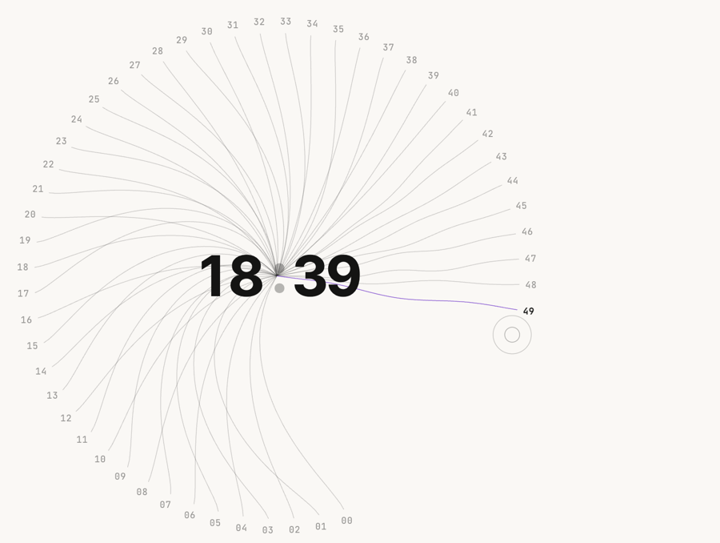
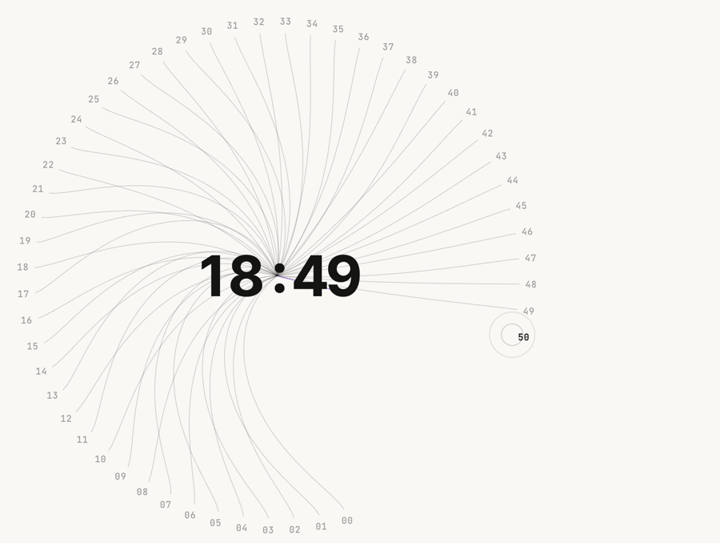
Crown lotus finale: each line folds into its own petal
In the final turn every line becomes a filled, pointed petal aimed at
its second: three rings of 20 offset like scales, deeper toward the
centre, around a disc with a turning rosette and a soft violet glow.
Petals shrink back into the centre at :00. Docs and previews updated.

diff --git a/lotus-clock.js b/lotus-clock.js
@@ -27,13 +27,14 @@ const GLOW_MS = 1700;         // ripple of light through the digits at :00
 const TWIST_K = 0.26;         // twist a line keeps per radian the dial turns
 const LAG_K = 250;            // extra trail while the dial moves (rad per rad/ms)
 const SAMPLES = 40;
-// In the final turn the lines gather into a lotus: every 5 lines make one petal (12 petals),
-// long and short alternating. The outer pair of each group become the petal's edges.
-const PER_PETAL = 5;
-const PETALS = 60 / PER_PETAL;
-const petalLen = (g) => (g % 2 ? 0.72 : 1);
-const petalWid = (g) => (g % 2 ? 0.46 : 0.34);                       // half-width, share of length
-const petalShape = (u) => Math.sin(Math.PI * Math.pow(u, 1.36));     // pointed ends, fullest past the middle
+// In the final turn every line folds into its own lotus petal, pointing at its second.
+// Line s joins ring s % 3, so the 60 lines make three rings of 20 petals, offset like scales
+// (a crown lotus). Values are shares of the space between the digits and the dial.
+const RINGS = 3;
+const RING_BASE = [-0.02, 0.17, 0.36];   // where each ring's petals start (inner → outer)
+const RING_LEN = [0.46, 0.52, 0.64];     // how long they are
+const RING_FILL = [0.55, 0.4, 0.28];     // inner petals are deeper
+const petalShape = (v) => Math.pow(Math.sin(Math.PI * v), 0.8) * (1 - 0.38 * v) * 1.25;   // onion-dome: round body, pointed tip
 
 /* ---------------------------------------------------------------------------
  * Sound: a synthesised Tibetan singing bowl, shared by every clock on the page.
@@ -180,8 +181,17 @@ text.now { opacity: 1; font-weight: 600; }
 .ripple { fill: none; stroke: currentColor; stroke-opacity: .5; stroke-width: .75; vector-effect: non-scaling-stroke; }
 .ripple.big { stroke: var(--_accent); stroke-opacity: .55; }
 .converge { fill: none; stroke: var(--_accent); stroke-opacity: .75; stroke-width: .9; vector-effect: non-scaling-stroke; opacity: 0; }
-.petal { fill: var(--_accent); stroke: none; opacity: 0; }
-.petal.long { fill-opacity: .16; } .petal.short { fill-opacity: .3; }
+.line { fill: var(--_accent); fill-opacity: 0; }
+.line.formed { stroke: var(--_accent); stroke-opacity: .85; }
+.aura {
+  position: absolute; inset: -6%; pointer-events: none; opacity: 0;
+  background: radial-gradient(circle at 50% 50%, color-mix(in srgb, var(--_accent) 34%, transparent) 0%, color-mix(in srgb, var(--_accent) 14%, transparent) 42%, transparent 68%);
+}
+.disc { opacity: 0; }
+.disc .face { fill: var(--lc-paper-solid, Canvas); }
+.disc .tint { fill: var(--_accent); fill-opacity: .12; stroke: var(--_accent); stroke-opacity: .55; stroke-width: 1; vector-effect: non-scaling-stroke; }
+.disc .inner { fill: none; stroke: var(--_accent); stroke-opacity: .4; stroke-width: .75; vector-effect: non-scaling-stroke; }
+.disc .rosette circle { fill: none; stroke: var(--_accent); stroke-opacity: .45; stroke-width: .7; vector-effect: non-scaling-stroke; }
 .clock {
   position: absolute; left: 50%; top: 50%; transform: translate(-50%, -50%);
   display: flex; align-items: baseline; white-space: nowrap;
@@ -235,6 +245,7 @@ export class LotusClock extends HTMLElement {
     const root = this.attachShadow({ mode: 'open' });
     root.innerHTML = `<style>${STYLES}</style>
       <div class="stage" part="stage">
+        <div class="aura" aria-hidden="true"></div>
         <svg aria-hidden="true"></svg>
         <div class="clock" part="time" role="timer" aria-live="off"><span class="hh">--</span><span class="colon">:</span><span class="mm">--</span></div>
         <div class="clock glow" aria-hidden="true"></div>
@@ -242,6 +253,7 @@ export class LotusClock extends HTMLElement {
       </div>`;
     this._el = {
       stage: root.querySelector('.stage'),
+      aura: root.querySelector('.aura'),
       svg: root.querySelector('svg'),
       clock: root.querySelector('.clock:not(.glow)'),
       glow: root.querySelector('.glow'),
@@ -432,10 +444,17 @@ export class LotusClock extends HTMLElement {
   _buildSvg() {
     const svg = this._el.svg;
     this._gLabels = this._mk('g', { class: 'labels' }, svg);
-    // Petal fills sit behind the lines; their shape is taken from the lines every frame.
-    this._gPetals = this._mk('g', { class: 'petals' }, svg);
-    this._petals = Array.from({ length: PETALS }, (_, g) => this._mk('path', { class: g % 2 ? 'petal short' : 'petal long' }, this._gPetals));
+    // Lines in three ring groups, outer ring drawn first so inner petals sit on top.
     this._gLines = this._mk('g', { class: 'lines' }, svg);
+    this._ringGroups = [];
+    [2, 1, 0].forEach((r) => { this._ringGroups[r] = this._mk('g', { class: `ring r${r}` }, this._gLines); });
+    // The centre of the lotus: a disc behind the time with a rosette of circles.
+    this._gDisc = this._mk('g', { class: 'disc' }, svg);
+    this._discFace = this._mk('circle', { class: 'face' }, this._gDisc);
+    this._discTint = this._mk('circle', { class: 'tint' }, this._gDisc);
+    this._discInner = this._mk('circle', { class: 'inner' }, this._gDisc);
+    this._rosette = this._mk('g', { class: 'rosette' }, this._gDisc);
+    this._rosetteCircles = Array.from({ length: 18 }, () => this._mk('circle', {}, this._rosette));
     this._gRipples = this._mk('g', { class: 'ripples' }, svg);
     this._converge = [0, 1, 2].map(() => this._mk('circle', { class: 'converge' }, this._gRipples));
     this._labels = Array.from({ length: 60 }, () => this._mk('text', {}, this._gLabels));
@@ -459,6 +478,14 @@ export class LotusClock extends HTMLElement {
     this._geo = { cx, cy, R, rIn, sparse: (TAU * R) / 60 < 22 };
     this._el.svg.setAttribute('viewBox', `0 0 ${host.width} ${host.height}`);
     Object.assign(this._el.bowl.style, { left: `${cx - rIn}px`, top: `${cy - rIn}px`, width: `${rIn * 2}px`, height: `${rIn * 2}px` });
+    // Disc and rosette (circles through the centre, like a spirograph), drawn around (0, 0).
+    const dr = rIn - 3;
+    [[this._discFace, dr], [this._discTint, dr], [this._discInner, dr * 0.84]].forEach(([c, r]) => { c.setAttribute('cx', 0); c.setAttribute('cy', 0); c.setAttribute('r', r.toFixed(1)); });
+    const rr = dr * 0.4;
+    this._rosetteCircles.forEach((c, i) => {
+      const a = (i / this._rosetteCircles.length) * TAU;
+      c.setAttribute('cx', (Math.cos(a) * rr).toFixed(1)); c.setAttribute('cy', (Math.sin(a) * rr).toFixed(1)); c.setAttribute('r', rr.toFixed(1));
+    });
     this._placedRot = null;
     this._placeLabels();
     this._paintLabels();
@@ -495,14 +522,13 @@ export class LotusClock extends HTMLElement {
     const drag = s % 2 ? rand(1.05, 1.5) : rand(0.5, 0.95);
     this._lines.push({
       s, th: this._angle(s), drag,
-      g: Math.floor(s / PER_PETAL),                                       // which petal it joins
-      c: ((s % PER_PETAL) - (PER_PETAL - 1) / 2) / ((PER_PETAL - 1) / 2), // −1 … +1 across the petal
-      mFix: null, pts: [],
+      ring: s % RINGS,                                                    // which ring of the lotus it joins
+      mFix: null,
       twist: age * Math.abs(STEP) * TWIST_K * drag,
       f: rand(1, 2.4), w: rand(1.2, 2.8), phi: rand(0, TAU),
       born: now + delay, pluckAt: now + delay + GROW_MS * 0.75, pluckAmp: rand(5, 9),
       retractAt: null,
-      path: this._mk('path', { class: 'line' }, this._gLines),
+      path: this._mk('path', { class: 'line' }, this._ringGroups[s % RINGS]),
     });
   }
 
@@ -589,21 +615,37 @@ export class LotusClock extends HTMLElement {
     } else this._angVel = 0;
     this._lastRot = this._rot; this._lastFrame = now;
 
-    // How far the lines have gathered into the lotus: only during the final turn.
+    // How far the lines have folded into the lotus: only during the final turn.
     const form = still || !finale ? 0 : smoothstep(clamp(turn * 1.3, 0, 1));
     if (turn > 0) this._form = form;   // remembered past :00 so the closing lotus keeps its shape
+    // How visible the lotus's centre and glow are: with the bloom, then fading after :00.
+    let bloom = form;
+    if (turn <= 0 && !still && finale && now - this._rolledAt < 900) bloom = 1 - smoothstep((now - this._rolledAt) / 900);
+    this._el.aura.style.opacity = (bloom * 0.95).toFixed(3);
+    this._gDisc.style.opacity = bloom.toFixed(3);
+    if (bloom > 0.001) {
+      const deg = (this._rot * 180) / Math.PI;
+      this._gDisc.setAttribute('transform', `translate(${cx.toFixed(1)} ${cy.toFixed(1)})`);
+      this._rosette.setAttribute('transform', `rotate(${(-deg * 1.5).toFixed(2)}) scale(${(0.6 + 0.4 * bloom).toFixed(3)})`);
+    }
     this._placeLabels();
+
+    const span = R - g.rIn;
+    const half = Math.PI / 20;                          // half the angle between petals in one ring
 
     // Lines.
     this._lines = this._lines.filter((st) => {
-      let end = 1;
+      // How much of the line is drawn, and (for a closing lotus) how far its petal has shrunk.
+      const m = st.mFix === null ? form : st.mFix;
+      let end = 1, shrink = 1;
       if (st.retractAt !== null) {
         const r = still ? 1 : clamp((now - st.retractAt) / RETRACT_MS, 0, 1);
         if (r >= 1) { st.path.remove(); return false; }
-        end = 1 - ease(r);
+        if (m > 0.001) shrink = 1 - ease(r);            // petals fold back into the centre
+        else end = 1 - ease(r);                           // plain lines draw back in
       }
       if (!still) end = Math.min(end, ease(clamp((now - st.born) / GROW_MS, 0, 1)));
-      if (end < 0.005) { st.path.setAttribute('d', ''); return true; }
+      if (end < 0.005 || shrink < 0.005) { st.path.setAttribute('d', ''); return true; }
 
       const th = st.th + this._rot;
       const dx = Math.cos(th), dy = Math.sin(th), nx = -dy, ny = dx;
@@ -611,17 +653,15 @@ export class LotusClock extends HTMLElement {
       const trail = st.twist - this._angVel * LAG_K * st.drag;
       const A = !still && now >= st.pluckAt ? st.pluckAmp * Math.exp(-(now - st.pluckAt) / 480) : 0;
 
-      // Its place in the lotus (only used while gathering): along the petal's axis, bowed across it.
-      const m = st.mFix === null ? form : st.mFix;
-      let ux = 0, uy = 0, vx = 0, vy = 0, Lp = 0, Wp = 0;
+      // Its petal: from the ring's base out to a point, aimed at the line's own second.
+      let base = 0, L = 0, W = 0;
       if (m > 0.001) {
-        const ax = this._angle(st.g * PER_PETAL + (PER_PETAL - 1) / 2) + this._rot;
-        ux = Math.cos(ax); uy = Math.sin(ax); vx = -uy; vy = ux;
-        Lp = R * petalLen(st.g); Wp = Lp * petalWid(st.g) * st.c;
+        base = g.rIn + span * RING_BASE[st.ring];
+        L = span * RING_LEN[st.ring];
+        W = Math.min(L * 0.42, (base + L * 0.4) * Math.sin(half) * 1.3);
       }
 
       let d = '';
-      const pts = st.pts; pts.length = 0;
       for (let i = 0; i <= SAMPLES; i++) {
         const u = end * (i / SAMPLES);
         const x = R * u;
@@ -633,39 +673,20 @@ export class LotusClock extends HTMLElement {
           [px, py] = [px * cl - py * sl, px * sl + py * cl];
         }
         if (m > 0.001) {
-          const sh = petalShape(u);
-          px += (ux * Lp * u + vx * Wp * sh - px) * m;
-          py += (uy * Lp * u + vy * Wp * sh - py) * m;
+          // Trace the petal: first half up one edge to the tip, second half back down the other.
+          const v = u <= 0.5 ? u * 2 : (1 - u) * 2;
+          const side = u <= 0.5 ? -1 : 1;
+          const qx = base + L * v, qy = side * W * petalShape(v);
+          px += (dx * qx + nx * qy - px) * m;
+          py += (dy * qx + ny * qy - py) * m;
         }
-        const X = cx + px, Y = cy + py;
-        pts.push(X, Y);
-        d += `${i ? 'L' : 'M'}${X.toFixed(1)},${Y.toFixed(1)}`;
+        d += `${i ? 'L' : 'M'}${(cx + px * shrink).toFixed(1)},${(cy + py * shrink).toFixed(1)}`;
       }
-      st.m = m;
-      st.path.setAttribute('d', d);
-      st.path.classList.toggle('now', st.s === this._current && st.retractAt === null);
+      st.path.setAttribute('d', m > 0.5 ? d + 'Z' : d);
+      st.path.style.fillOpacity = m > 0.001 ? (m * m * RING_FILL[st.ring]).toFixed(3) : '0';
+      st.path.classList.toggle('formed', m > 0.4);
+      st.path.classList.toggle('now', st.s === this._current && st.retractAt === null && m < 0.4);
       return true;
-    });
-
-    // Fill each petal between its two edge lines, so the colour is shaped by the lines themselves.
-    const groups = new Map();
-    this._lines.forEach((st) => {
-      if (!(st.m > 0.01) || !st.pts.length) return;
-      const grp = groups.get(st.g) || { lo: null, hi: null, m: 0, n: 0 };
-      if (!grp.lo || st.c < grp.lo.c) grp.lo = st;
-      if (!grp.hi || st.c > grp.hi.c) grp.hi = st;
-      grp.m += st.m; grp.n++;
-      groups.set(st.g, grp);
-    });
-    this._petals.forEach((el, g) => {
-      const grp = groups.get(g);
-      if (!grp || grp.lo === grp.hi) { el.style.opacity = '0'; return; }
-      const a = grp.hi.pts, b = grp.lo.pts;
-      let d = `M${a[0].toFixed(1)},${a[1].toFixed(1)}`;
-      for (let i = 2; i < a.length; i += 2) d += `L${a[i].toFixed(1)},${a[i + 1].toFixed(1)}`;
-      for (let i = b.length - 2; i >= 0; i -= 2) d += `L${b[i].toFixed(1)},${b[i + 1].toFixed(1)}`;
-      el.setAttribute('d', d + 'Z');
-      el.style.opacity = (grp.m / grp.n).toFixed(3);
     });
 
     // Rings close in on the digits before :00.

diff --git a/README.md b/README.md
@@ -1,6 +1,6 @@
 # lotus-clock
 
-A kinetic clock as a drop-in web component. Each second a straight line grows from the time to its place on the dial; every step of the dial leaves a little twist behind, so the lines slowly curl and cross as the minute goes on. In the last seconds the dial makes a full turn and the lines gather into a lotus, filled with amethyst between them; a ripple of light runs through the digits as the minute changes and the lotus closes back into the centre.
+A kinetic clock as a drop-in web component. Each second a straight line grows from the time to its place on the dial; every step of the dial leaves a little twist behind, so the lines slowly curl and cross as the minute goes on. In the last seconds the dial makes a full turn and every line folds into a petal of a crown lotus (three rings of 20 around a glowing disc); a ripple of light runs through the digits as the minute changes and the lotus closes back into the centre.
 
 No dependencies, no build step, one file. Works in plain HTML, React, Vue, Svelte or anything else that renders DOM.
 
@@ -8,7 +8,7 @@ No dependencies, no build step, one file. Works in plain HTML, React, Vue, Svelt
 
 <p align="center">
   <img src="docs/preview.png" width="32%" alt="Lines curling as the minute passes">
-  <img src="docs/preview-spin.png" width="32%" alt="The lines gathered into an amethyst lotus during the final turn">
+  <img src="docs/preview-spin.png" width="32%" alt="The lines folded into a crown lotus during the final turn">
   <img src="docs/preview-dark.png" width="32%" alt="Dark theme">
 </p>
 
@@ -16,7 +16,7 @@ No dependencies, no build step, one file. Works in plain HTML, React, Vue, Svelt
 
 - **Stepping dial.** The newest second always lands on the same spot; older seconds travel round.
 - **Lines that take shape from motion.** Straight on arrival, curving as the dial turns, tangling in the final spin.
-- **Minute finale.** One full turn while the lines gather into a 12-petal lotus (the colour fills the space between each petal's edge lines), converging rings, and a ripple of light through the digits.
+- **Minute finale.** One full turn while each line folds into its own amethyst petal (three rings of 20, offset like scales, deeper toward the centre) around a disc with a turning rosette and a soft violet glow; converging rings, and a ripple of light through the digits.
 - **Countdown mode.** Turn it into a focus timer with `countdown('25:00')`, with pause, resume and a `complete` event.
 - **Singing bowl (optional).** Sound synthesised with the Web Audio API: a water-drop per second, a rim-rub swell into the minute, and a bowl strike you can ring by pressing the middle.
 - **Any time zone.** Pass an IANA zone like `Asia/Kathmandu`.
@@ -28,7 +28,7 @@ No dependencies, no build step, one file. Works in plain HTML, React, Vue, Svelt
 **From a CDN** (no install):
 
 ```html
-<script type="module" src="https://cdn.jsdelivr.net/gh/Sagunnn/lotus-clock@1.0.1/lotus-clock.js"></script>
+<script type="module" src="https://cdn.jsdelivr.net/gh/Sagunnn/lotus-clock@1.0.2/lotus-clock.js"></script>
 ```
 
 **With npm** (straight from GitHub):
@@ -47,7 +47,7 @@ import 'lotus-clock';                    // registers <lotus-clock>
 ## Quick start
 
 ```html
-<script type="module" src="https://cdn.jsdelivr.net/gh/Sagunnn/lotus-clock@1.0.1/lotus-clock.js"></script>
+<script type="module" src="https://cdn.jsdelivr.net/gh/Sagunnn/lotus-clock@1.0.2/lotus-clock.js"></script>
 
 <lotus-clock style="width: 480px"></lotus-clock>
 ```
@@ -121,6 +121,7 @@ lotus-clock {
   --lc-accent: #8a4fd6;        /* newest line, rings, lotus, glow (amethyst) */
   --lc-glow: rgba(138,79,214,.35);
   --lc-paper: transparent;     /* background */
+  --lc-paper-solid: #faf8f5;   /* disc behind the time in the finale (default: page background) */
   --lc-font-display: "Inter Tight", Helvetica, Arial, sans-serif;  /* digits */
   --lc-font-weight: 700;
   --lc-font-mono: "JetBrains Mono", ui-monospace, monospace;       /* labels */
@@ -146,7 +147,7 @@ For deeper changes, the shadow DOM exposes parts: `::part(stage)`, `::part(time)
 <button id="go">Start focus</button>
 
 <script type="module">
-  import 'https://cdn.jsdelivr.net/gh/Sagunnn/lotus-clock@1.0.1/lotus-clock.js';
+  import 'https://cdn.jsdelivr.net/gh/Sagunnn/lotus-clock@1.0.2/lotus-clock.js';
 
   const clock = document.getElementById('pomodoro');
   const plan = ['25:00', '5:00', '25:00', '5:00', '25:00', '5:00', '25:00', '15:00'];
@@ -247,7 +248,7 @@ Current Chrome, Edge, Safari and Firefox. It uses Custom Elements, Shadow DOM, `
 
 - 60 points sit on a circle. Each second, a line grows from the centre of the time to the newest point, and the whole dial eases one step (6°) counterclockwise so the newest point is always in the same place.
 - Every frame, each line rotates its inner points by a lag that grows with how far the dial has turned since the line arrived, plus a little extra while the dial is moving. Neighbouring lines lag by different amounts, so their curves cross.
-- From :56 the dial adds one full turn and every line eases toward a place in a lotus: each group of five lines becomes a petal (the middle line the midrib, the outer pair its edges), 12 petals alternating long and short. Each petal is filled with a path built from its two edge lines, so the colour is shaped by the lines. Rings close in on the digits, and at :00 a masked copy of the digits in the accent colour reveals a ripple of light while the lines draw back in.
+- From :56 the dial adds one full turn and every line eases into a closed petal outline aimed at its own second: line `s` joins ring `s % 3`, so the 60 lines make three rings of 20 petals, and each line's own path is filled, so the petals are the lines. A disc with an 18-circle rosette and a radial glow fade in at the centre. Rings close in on the digits, and at :00 a masked copy of the digits in the accent colour reveals a ripple of light while the petals shrink back into the centre.
 - The bowl is four sine oscillators (a fundamental, a partner 1.8 Hz above for the slow beating, and partials at ×2.71 and ×4.83) through a low-pass filter, a generated reverb and a short echo.
 
 ## Development
